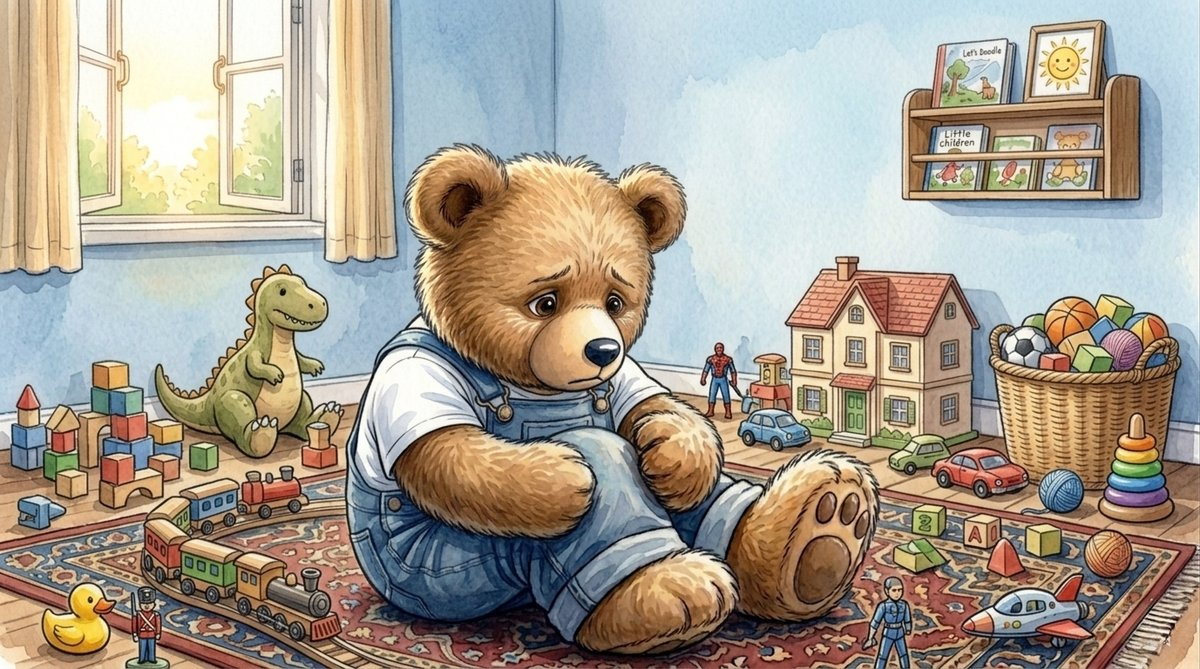
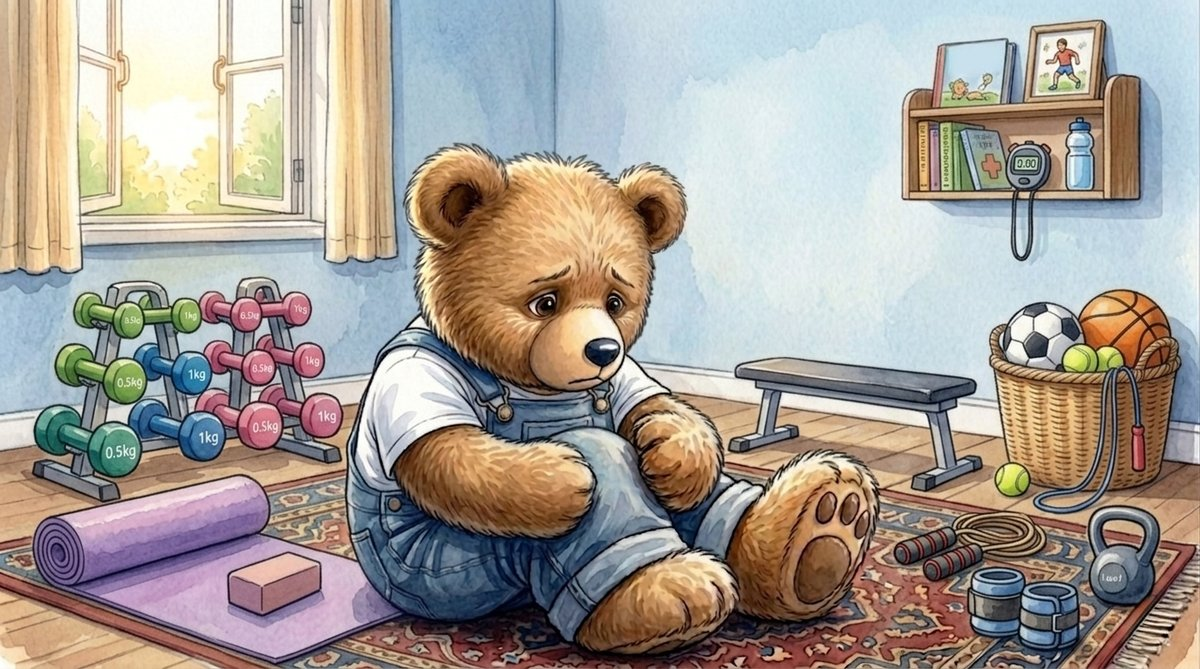
final

diff --git a/frontend/_index.html b/frontend/_index.html
@@ -304,7 +304,8 @@
                         <div class="px-5 py-6">
                             <!-- Заголовок -->
                             <div class="text-center mb-6">
-                                <h1 class="text-2xl font-medium text-gray-900">Вы молодец — прошли весь путь!</h1>
+                                <h1 class="text-2xl font-medium text-gray-900 mb-1">🎉 Тест завершён!</h1>
+                                <p class="text-sm text-gray-500" x-text="`Заявка №${result.data.lead_number}`"></p>
                             </div>
 
                             <!-- Результаты по системам -->
@@ -328,13 +329,12 @@
                             </div>
 
                             <!-- Сообщение о консультанте -->
-                            <div class="bg-emerald-50 border border-emerald-200 rounded-xl p-4 mb-5">
-                                <p class="text-[14px] text-emerald-900 leading-relaxed">
+                            <div class="bg-blue-50 border border-blue-100 rounded-xl p-4 mb-5">
+                                <p class="text-[14px] text-blue-900 leading-relaxed">
                                     📞 <span class="font-medium">С вами свяжется консультант</span>
                                     для подробной расшифровки результатов
                                     <span x-show="form.email">и пришлёт копию отчёта на почту <span class="font-medium" x-text="form.email"></span></span>.
                                 </p>
-                                <p class="text-[12px] text-emerald-700 mt-2" x-text="`Заявка №${result.data.lead_number}`"></p>
                             </div>
 
                             <!-- Кнопки действий -->
